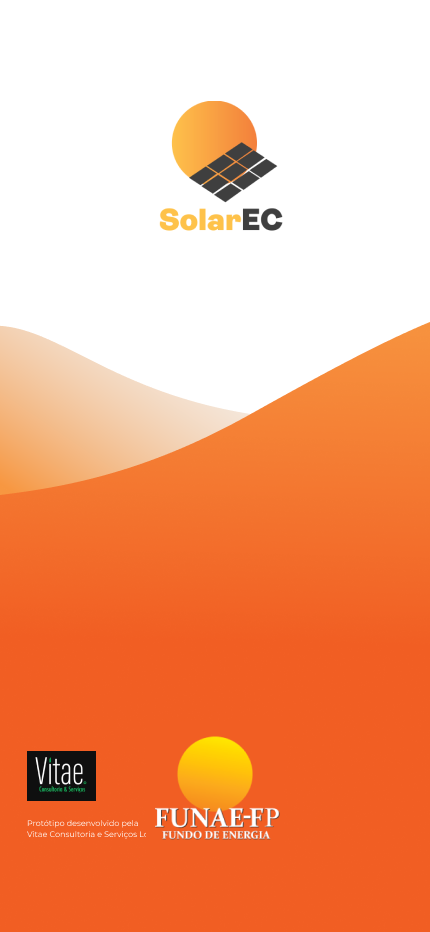
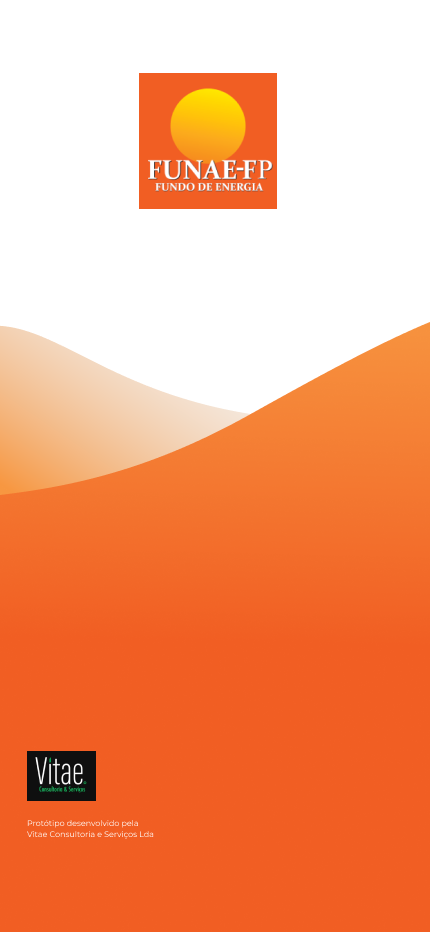
Update default image name in BgImageComponent.vue Fix router navigation in ComprarRecarga.vue and UltimaRecarga.vue

Changed region(s): [[0.3023, 0.0622, 0.6651, 0.2489], [0.3628, 0.7779, 0.6349, 0.9024]]

diff --git a/src/pages/MenuPage.vue b/src/pages/MenuPage.vue
@@ -4,42 +4,45 @@
 
     <div class="buttons-container text-center">
       <q-card-section>
-  <span style="font-size: 24px;font-weight: bold;">Menu </span> <!-- Adjust font-size as needed -->
-  <span
-    style="background-color: rgba(210, 128, 5, 0.3); padding: 5px 5px; border-radius: 10px; font-size: 24px;font-weight: bold;">
-    Principal
-  </span>
-</q-card-section>
+        <span style="font-size: 24px; font-weight: bold;">Menu </span>
+        <span
+          style="background-color: rgba(210, 128, 5, 0.3); padding: 5px 5px; border-radius: 10px; font-size: 24px; font-weight: bold;">
+          Principal
+        </span>
+      </q-card-section>
 
-        <q-btn
-      @click="goToComprarRecarga"
-      label="Comprar Energia"
-      color="primary"
-      class="full-width"
-      rounded
-      size="xl"
-      no-caps
-      icon="mdi-solar-power"
-    />
-    <q-btn
-      @click="goToUltimaRecarga"
-      label="Ultima Recarga"
-      color="secondary"
-      class="full-width"
-      rounded
-      size="xl"
-      no-caps
-      icon="mdi-home-lightning-bolt-outline"
-    />
-  </div>
+      <q-btn
+        @click="goToComprarRecarga"
+        label="Comprar"
+        color="primary"
+        class="full-width"
+        rounded
+        size="xl"
+        no-caps
+        icon="mdi-solar-power"
+      />
+      <q-btn
+        @click="goToUltimaRecarga"
+        label="Ultima Recarga"
+        color="secondary"
+        class="full-width"
+        rounded
+        size="xl"
+        no-caps
+        icon="mdi-home-lightning-bolt-outline"
+      />
+    </div>
   </q-page>
 </template>
 
 <script>
-import BgImageComponentVue from 'src/components/BgImageComponent.vue';
+import BgImageComponent from 'src/components/BgImageComponent.vue';
 
 export default {
   name: "MenuPage",
+  components: {
+    BgImageComponent
+  },
   methods: {
     goToComprarRecarga() {
       this.$router.push("/comprar-recarga");
@@ -59,20 +62,27 @@ export default {
   align-items: center;
   height: 100vh;
   padding: 20px;
-  background-color: #f0f0f0;
-}
-.full-width {
-  width: 100%;
-  margin-bottom: 15px;
+  background-size: cover;
+  background-position: center;
+  position: relative;
 }
 
 .buttons-container {
+  position: relative;
   display: flex;
   flex-direction: column; /* Stack buttons vertically */
   gap: 16px; /* Space between buttons, similar to 'q-gutter-y-md' */
   max-width: 500px; /* Same as your previous max-width */
-  width: 70%; /* Make it full width */
+  width: 80%; /* Make it full width */
   margin: 0 auto; /* Centers horizontally in the content-container */
+  padding: 20px;
+  background-color: rgba(255, 255, 255, 0.8); /* Optional: Add a background color with some opacity to improve readability */
+  border-radius: 10px; /* Optional: Add some border radius */
+}
+
+.full-width {
+  width: 100%;
+  margin-bottom: 15px;
 }
 
 .content-container {
@@ -83,6 +93,4 @@ export default {
   text-align: center;
   min-height: 100vh; /* Takes the full height of the viewport */
 }
-
-
 </style>

diff --git a/src/pages/UltimaRecarga.vue b/src/pages/UltimaRecarga.vue
@@ -14,6 +14,7 @@
 <q-input
           v-model="contador"
           label="Insira o número de contador"
+          bg-color="accent"
           filled
           class="q-my-md"
           input-style="font-size: 20pt"
@@ -45,10 +46,14 @@
 </template>
 
 <script>
+import BgImageComponent from 'src/components/BgImageComponent.vue';
 import axios from 'axios';
 
 export default {
   name: 'UltimaRecarga',
+  components: {
+    BgImageComponent
+  },
   data() {
     return {
       contador: '',
@@ -72,7 +77,7 @@ export default {
       }
     },
     voltar() {
-      this.$router.back();
+      this.$router.back('menu');
     },
   },
 };

diff --git a/src/router/routes.js b/src/router/routes.js
@@ -3,7 +3,8 @@ const routes = [
     path: '/',
     component: () => import('layouts/MainLayout.vue'),
     children: [
-      { path: '/', component: () => import('pages/MenuPage.vue') },
+      { path: '', component: () => import('pages/SplashScreen.vue') },
+      { path: 'menu', component: () => import('pages/MenuPage.vue') },
       { path: 'comprar-recarga', component: () => import('pages/ComprarRecarga.vue') },
       { path: 'recarga-details', component: () => import('pages/RecargaDetails.vue') },
       { path: 'meio-de-pagamento', component: () => import('pages/MeioDePagamento.vue') },

diff --git a/src/pages/SplashScreen.vue b/src/pages/SplashScreen.vue
@@ -1,0 +1,24 @@
+<template>
+  <q-page class="flex flex-center bg-accent text-white">
+    <div class="text-center">
+      <img src="~assets/solarec-logo.png" alt="SOLAREC Logo" class="q-mb-md" />
+    </div>
+  </q-page>
+</template>
+
+<script setup>
+import { useRouter } from 'vue-router'
+import { onMounted } from 'vue'
+
+const router = useRouter()
+
+onMounted(() => {
+  setTimeout(() => {
+    router.push('/menu')
+  }, 4000)
+})
+</script>
+
+<style scoped>
+/* Add your styles here */
+</style>

diff --git a/src/pages/ComprarRecarga.vue b/src/pages/ComprarRecarga.vue
@@ -55,8 +55,13 @@
 </template>
 
 <script>
+import BgImageComponent from 'src/components/BgImageComponent.vue';
+
 export default {
   name: 'ComprarRecarga',
+  components: {
+    BgImageComponent
+  },
   data() {
     return {
       contador: '',
@@ -82,7 +87,7 @@ export default {
       }
     },
     voltar() {
-      this.$router.back();
+      this.$router.back('menu');
     },
   },
 };

diff --git a/src/components/BgImageComponent.vue b/src/components/BgImageComponent.vue
@@ -8,7 +8,7 @@ export default {
   props: {
     imageUrl: {
       type: String,
-      default: 'funaebg.png'
+      default: 'funae.png'
     },
     opacity: {
       type: Number,
